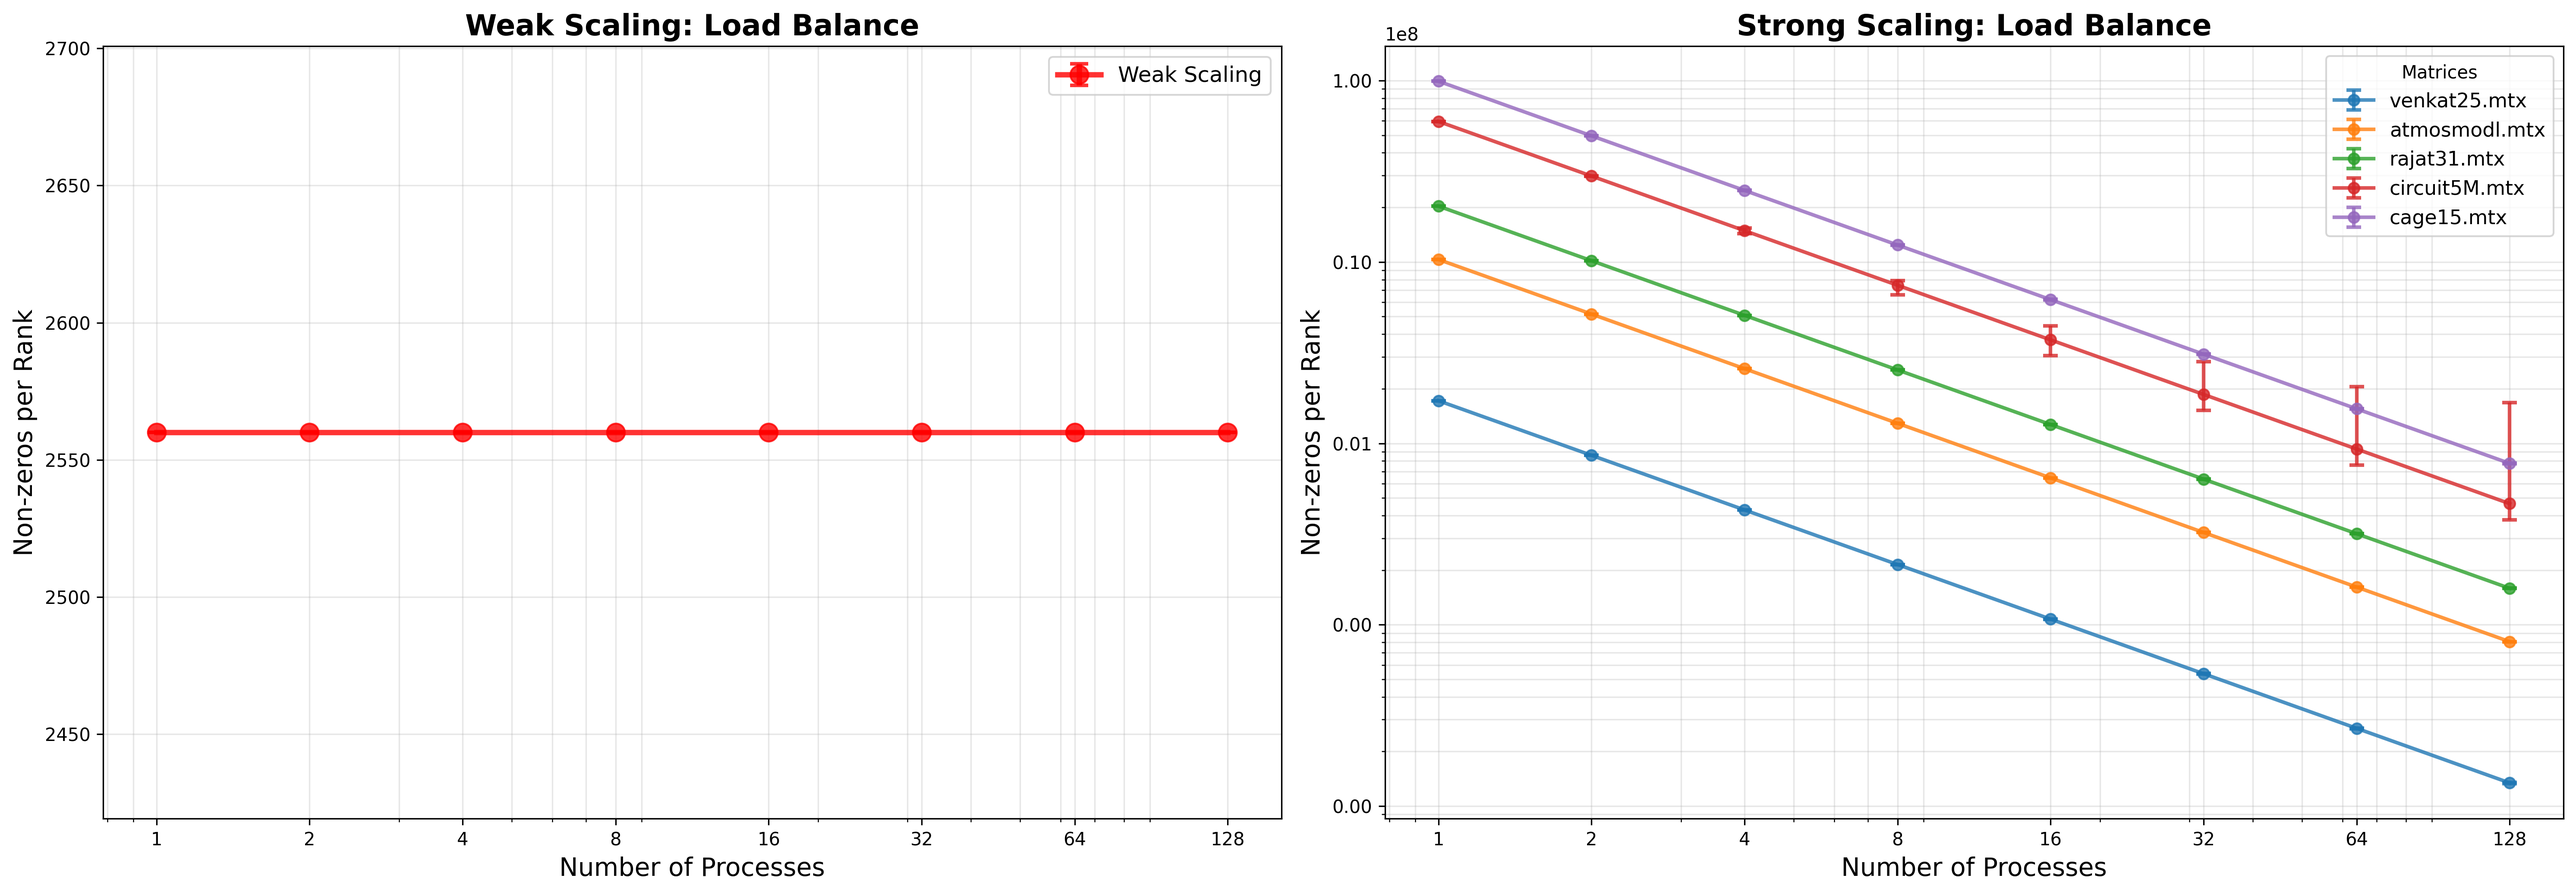
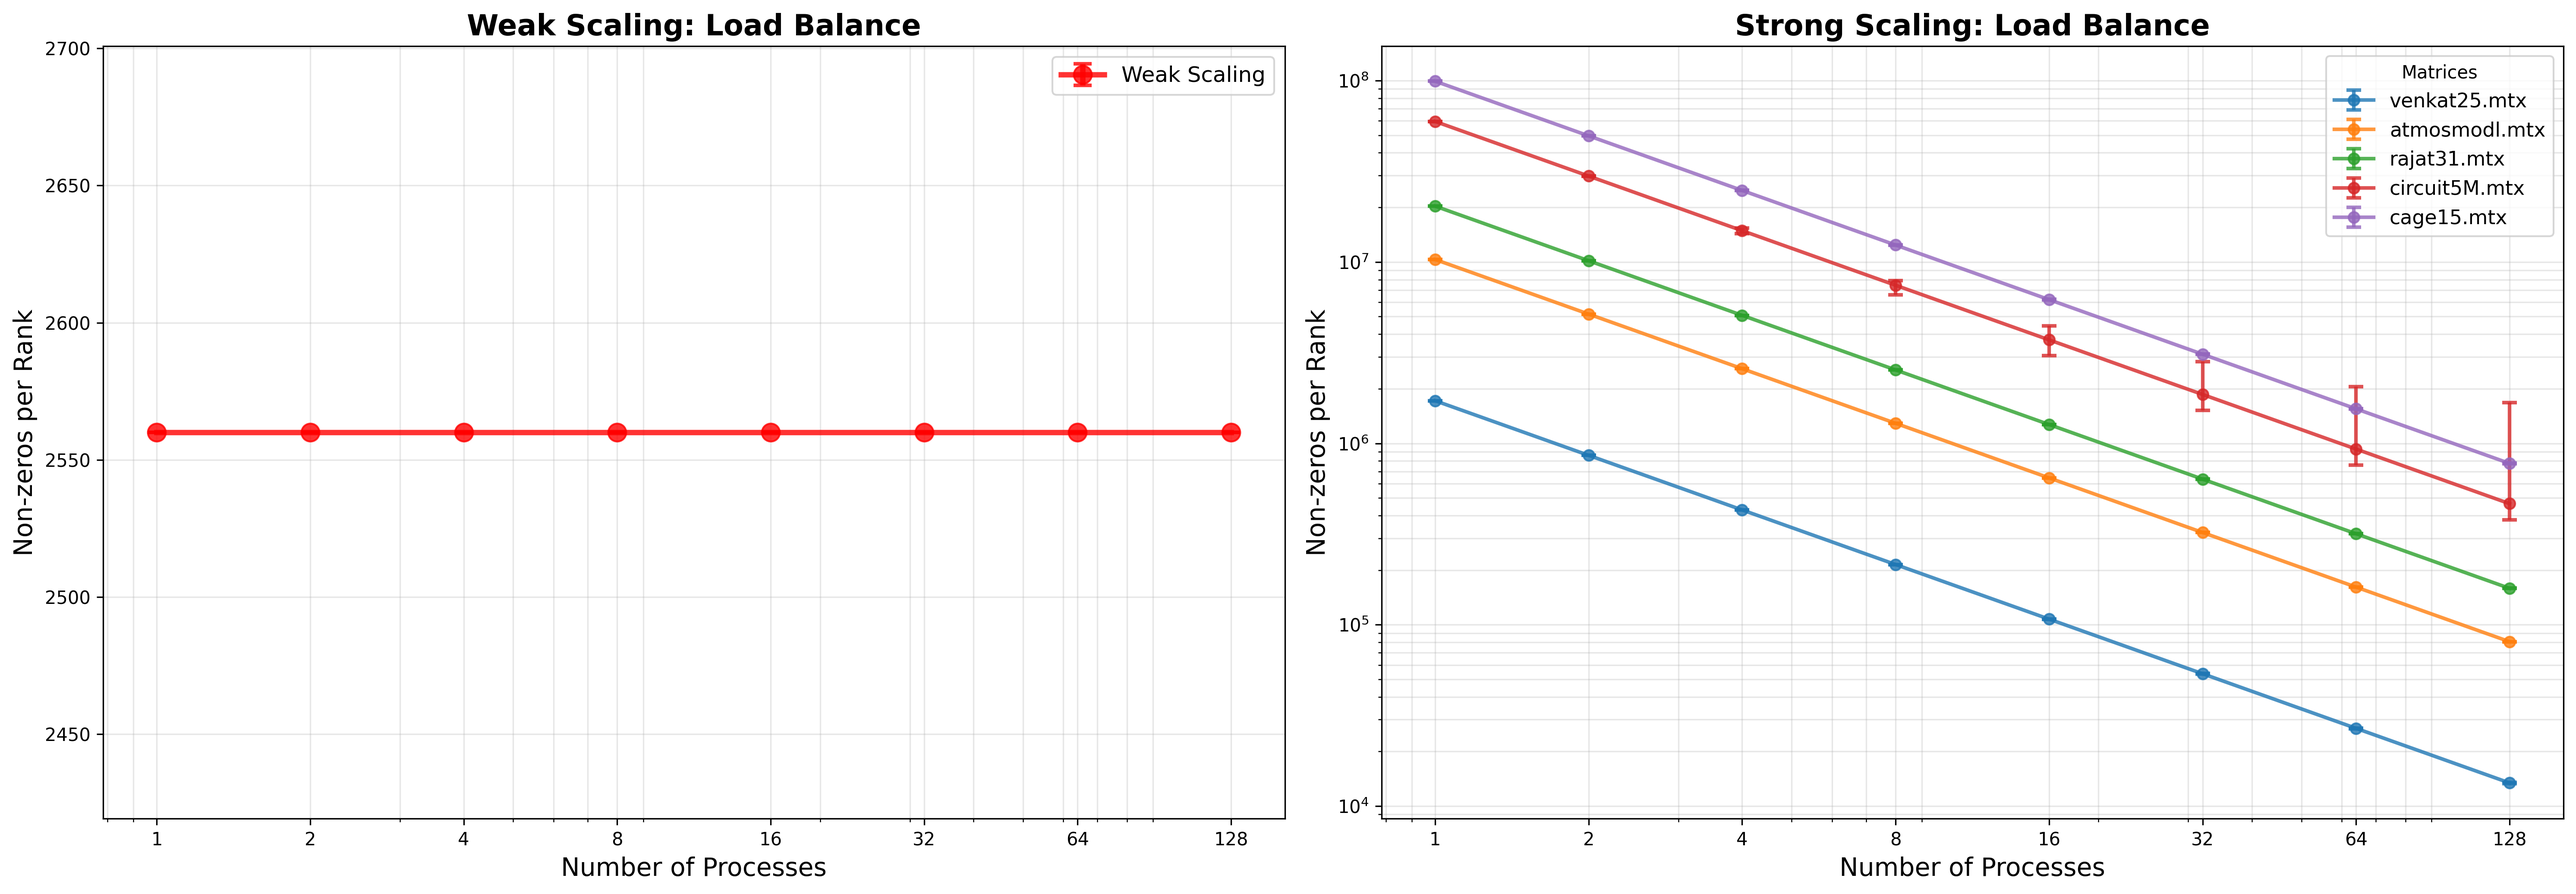
modified readme and plots, new results

diff --git a/D2/scripts/plots_weak_scaling.py b/D2/scripts/plots_weak_scaling.py
@@ -4,19 +4,15 @@ import os
 import matplotlib.ticker as ticker
 import numpy as np
 
-
 script_dir = os.path.dirname(os.path.abspath(__file__))
 parent_dir = os.path.dirname(script_dir)
-
 
 # Read CSV file
 INPUT_FILE = os.path.join(parent_dir, 'results', 'weak_scaling.csv')
 OUTPUT_DIR = os.path.join(parent_dir, 'plots')
 
-
 if not os.path.exists(OUTPUT_DIR):
     os.makedirs(OUTPUT_DIR)
-
 
 # Function to load and process data
 def load_data(input_file):
@@ -39,117 +35,111 @@ def load_data(input_file):
     df['T_Comm'] = pd.to_numeric(df['T_Comm'], errors='coerce')
     df = df.dropna().sort_values('Processes')
 
-
     # Use Total Time for weak scaling
     df['Total'] = df['T_Comp'] + df['T_Comm']
     df['Pct_Comp'] = (df['T_Comp'] / df['Total']) * 100
     df['Pct_Comm'] = (df['T_Comm'] / df['Total']) * 100
 
-
     # Weak Scaling Efficiency = T1_total / Tp_total
     t1_total = df[df['Processes'] == 1]['Total'].values[0]
     df['Efficiency'] = t1_total / df['Total']
 
-
     return df, t1_total
 
 
-# Function to create 1x4 weak scaling figure
+
+# Function to create 1x3 weak scaling figure
 def create_weak_scaling_plots(df, t1_total, output_filename, color_main='r'):
-    # Filter for linear plot (no 128P)
-    df_linear = df[df['Processes'] < 128].copy()
+    # Filter for bar plot (no 128P)
+    df_bar = df[df['Processes'] < 128].copy()
     
-    fig, (ax1, ax2, ax3, ax4) = plt.subplots(1, 4, figsize=(28, 6))
+    fig, (ax1, ax2, ax3) = plt.subplots(1, 3, figsize=(21, 6))
     ticks_x = [1, 2, 4, 8, 16, 32, 64, 128]
-    ticks_x_linear = [1, 2, 4, 8, 16, 32, 64]
 
 
-    # ========== Plot 1: Total Time NORMAL SCALE (all processes) ==========
+
+    # ========== Plot 1: Total Time (Log scale, no scientific notation on y-axis) ==========
     ax1.plot(df['Processes'], df['Total'],
              f'{color_main}o-', linewidth=2, markersize=8,
              label='Measured')
     ax1.axhline(y=t1_total, color=color_main, linestyle='--', linewidth=2,
                 label=f'Ideal ({t1_total:.2f} ms)', alpha=0.7)
-    ax1.set_title('Total Time (Normal Scale)', fontsize=12, fontweight='bold')
+    ax1.set_title('Total Time (Log scale)', fontsize=12, fontweight='bold')
     ax1.set_xlabel('Processes')
     ax1.set_ylabel('Time (ms)')
+    ax1.set_yscale('log')
     ax1.set_xscale('log')
     ax1.set_xticks(ticks_x)
     ax1.set_xticklabels(ticks_x)
     ax1.get_xaxis().set_major_formatter(ticker.ScalarFormatter())
+    ax1.get_yaxis().set_major_formatter(ticker.ScalarFormatter())
     ax1.grid(True, ls="-", alpha=0.3)
     ax1.legend(loc='best', fontsize=10)
 
 
-    # ========== Plot 2: Total Time LINEAR SCALE (≤64P) ==========
-    ax2.plot(df_linear['Processes'], df_linear['Total'],
+
+    # ========== Plot 2: Efficiency ==========
+    ax2.plot(df['Processes'], df['Efficiency'],
              f'{color_main}o-', linewidth=2, markersize=8,
-             label='Measured')
-    ax2.axhline(y=t1_total, color=color_main, linestyle='--', linewidth=2,
-                label=f'Ideal ({t1_total:.2f} ms)', alpha=0.7)
-    ax2.set_title('Total Time (Linear, ≤64P)', fontsize=12, fontweight='bold')
+             label='Efficiency')
+    ax2.axhline(y=1.0, color='k', linestyle='--', linewidth=2,
+                label='Ideal (1.0)')
+    ax2.set_title('Efficiency', fontsize=12, fontweight='bold')
     ax2.set_xlabel('Processes')
-    ax2.set_ylabel('Time (ms)')
+    ax2.set_ylabel('T₁ / Tₚ')
     ax2.set_xscale('log')
-    ax2.set_xticks(ticks_x_linear)
-    ax2.set_xticklabels(ticks_x_linear)
+    ax2.set_xticks(ticks_x)
+    ax2.set_xticklabels(ticks_x)
     ax2.get_xaxis().set_major_formatter(ticker.ScalarFormatter())
-    ax2.set_ylim(-0.02, 0.2)
-    ax2.grid(True, ls="-", alpha=0.3)
+    ax2.grid(True, which="both", ls="-", alpha=0.3)
     ax2.legend(loc='best', fontsize=10)
 
 
-    # ========== Plot 3: Efficiency ==========
-    ax3.plot(df['Processes'], df['Efficiency'],
-             f'{color_main}o-', linewidth=2, markersize=8,
-             label='Efficiency')
-    ax3.axhline(y=1.0, color='k', linestyle='--', linewidth=2,
-                label='Ideal (1.0)')
-    ax3.set_title('Efficiency', fontsize=12, fontweight='bold')
-    ax3.set_xlabel('Processes')
-    ax3.set_ylabel('T₁ / Tₚ')
-    ax3.set_xscale('log')
-    ax3.set_xticks(ticks_x)
-    ax3.set_xticklabels(ticks_x)
-    ax3.get_xaxis().set_major_formatter(ticker.ScalarFormatter())
-    ax3.grid(True, which="both", ls="-", alpha=0.3)
-    ax3.legend(loc='best', fontsize=10)
 
-
-    # ========== Plot 4: Time Breakdown (%) ==========
-    procs = df['Processes'].astype(str).values
+    # ========== Plot 3: Time Breakdown ==========
+    procs = df_bar['Processes'].astype(str).values
     x_pos = np.arange(len(procs))
-    ax4.bar(x_pos, df['Pct_Comp'].values,
+    ax3.bar(x_pos, df_bar['T_Comp'].values,
             color='#2ECC71', label='Compute',
             edgecolor='white', width=0.6)
-    ax4.bar(x_pos, df['Pct_Comm'].values,
-            bottom=df['Pct_Comp'].values,
+    ax3.bar(x_pos, df_bar['T_Comm'].values,
+            bottom=df_bar['T_Comp'].values,
             color='#E74C3C', label='Comm',
             edgecolor='white', width=0.6)
 
 
-    for i in range(len(df)):
-        pct_comp = df['Pct_Comp'].values[i]
-        pct_comm = df['Pct_Comm'].values[i]
+
+
+    for i in range(len(df_bar)):
+        pct_comp = df_bar['Pct_Comp'].values[i]
+        pct_comm = df_bar['Pct_Comm'].values[i]
+        t_comp = df_bar['T_Comp'].values[i]
+        t_comm = df_bar['T_Comm'].values[i]
+        # Display percentage if segment is large enough
         if pct_comp > 10:
-            ax4.text(i, pct_comp / 2, f'{pct_comp:.0f}%',
+            ax3.text(i, t_comp / 2, f'{pct_comp:.0f}%',
                      ha='center', va='center', fontsize=8,
                      fontweight='bold', color='black')
         if pct_comm > 10:
-            ax4.text(i, pct_comp + pct_comm / 2, f'{pct_comm:.0f}%',
+            ax3.text(i, t_comp + t_comm / 2, f'{pct_comm:.0f}%',
                      ha='center', va='center', fontsize=8,
                      fontweight='bold', color='white')
 
 
-    ax4.set_title('Time Breakdown (%)', fontsize=12, fontweight='bold')
-    ax4.set_xlabel('Processes')
-    ax4.set_ylabel('% Total Time')
-    ax4.set_xticks(x_pos)
-    ax4.set_xticklabels(procs, rotation=45, ha='right')
-    ax4.set_ylim(0, 100)
-    ax4.legend(loc='upper right', fontsize=10)
-    ax4.grid(axis='y', linestyle='--', alpha=0.3)
-    ax4.set_axisbelow(True)
+
+
+    ax3.set_title('Time Breakdown (<= 64P)', fontsize=12, fontweight='bold')
+    ax3.set_xlabel('Processes')
+    ax3.set_ylabel('Time (ms)')
+    ax3.set_xticks(x_pos)
+    ax3.set_xticklabels(procs)
+    ax3.yaxis.set_major_locator(ticker.MaxNLocator(nbins=10))
+    ax3.legend(loc='upper right', fontsize=10)
+    ax3.grid(axis='y', linestyle='--', alpha=0.3)
+    ax3.set_axisbelow(True)
+
+
+
 
 
     plt.tight_layout()

diff --git a/D2/scripts/plots_nz.py b/D2/scripts/plots_nz.py
@@ -66,11 +66,9 @@ ax1.legend(loc='best', fontsize=12)
 for mat in MATRIX_ORDER:
     if mat in df_strong['Matrix'].unique():
         subset = df_strong[df_strong['Matrix'] == mat].sort_values('Processes')
-        
         yerr_lower = subset['NZ_Avg'] - subset['NZ_Min']
         yerr_upper = subset['NZ_Max'] - subset['NZ_Avg']
         yerr = [yerr_lower, yerr_upper]
-        
         ax2.errorbar(subset['Processes'], subset['NZ_Avg'],
                      yerr=yerr, marker='o', linewidth=2,
                      markersize=6, capsize=4, capthick=2,
@@ -84,9 +82,11 @@ ax2.set_yscale('log')
 ax2.set_xticks(ticks_x)
 ax2.set_xticklabels(ticks_x)
 ax2.get_xaxis().set_major_formatter(ticker.ScalarFormatter())
-ax2.get_yaxis().set_major_formatter(ticker.ScalarFormatter())
+# Remove the y-axis formatter lines - let log scale use default
 ax2.grid(True, which="both", ls="-", alpha=0.3)
 ax2.legend(title="Matrices", loc='best', fontsize=11)
+
+
 
 plt.tight_layout()
 out_path = os.path.join(OUTPUT_DIR, OUTPUT_FILE)

diff --git a/D2/scripts/plots_strong_scaling.py b/D2/scripts/plots_strong_scaling.py
@@ -90,6 +90,7 @@ def create_plot(df, output_filename):
     ax1.set_title('Strong Scaling: Total Execution Time', fontsize=14, fontweight='bold')
     ax1.set_xlabel('Number of Processes', fontsize=12)
     ax1.set_ylabel('Total Time (s)', fontsize=12)
+    ax1.yaxis.set_major_locator(ticker.MaxNLocator(nbins=10))
     ax1.set_xscale('log')
     ax1.set_xticks(ticks_x)
     ax1.set_xticklabels(ticks_x)
@@ -101,6 +102,7 @@ def create_plot(df, output_filename):
     ax2.set_title('Strong Scaling: Speedup', fontsize=14, fontweight='bold')
     ax2.set_xlabel('Number of Processes', fontsize=12)
     ax2.set_ylabel('Speedup (T₁ / Tₚ)', fontsize=12)
+    ax2.yaxis.set_major_locator(ticker.MaxNLocator(nbins=10))
     ax2.set_xscale('log')
     ax2.set_xticks(ticks_x)
     ax2.set_xticklabels(ticks_x)

diff --git a/D2/scripts/plots_gflops.py b/D2/scripts/plots_gflops.py
@@ -56,6 +56,7 @@ ax1.plot(df_weak['Processes'], df_weak['GFLOPS'],
 ax1.set_title('Weak Scaling: GFLOPS', fontsize=16, fontweight='bold')
 ax1.set_xlabel('Number of Processes', fontsize=14)
 ax1.set_ylabel('GFLOPS', fontsize=14)
+ax1.yaxis.set_major_locator(ticker.MaxNLocator(nbins=12))
 ax1.set_xscale('log')
 ax1.set_xticks(ticks_x)
 ax1.set_xticklabels(ticks_x)
@@ -73,6 +74,7 @@ for mat in MATRIX_ORDER:
 ax2.set_title('Strong Scaling: GFLOPS', fontsize=16, fontweight='bold')
 ax2.set_xlabel('Number of Processes', fontsize=14)
 ax2.set_ylabel('GFLOPS', fontsize=14)
+ax2.yaxis.set_major_locator(ticker.MaxNLocator(nbins=12))
 ax2.set_xscale('log')
 ax2.set_xticks(ticks_x)
 ax2.set_xticklabels(ticks_x)

diff --git a/D2/scripts/plots_strong_scaling_bars.py b/D2/scripts/plots_strong_scaling_bars.py
@@ -4,6 +4,7 @@ import os
 import numpy as np
 import matplotlib.colors as mcolors
 from matplotlib.patches import Patch
+import matplotlib.ticker as ticker
 
 script_dir = os.path.dirname(os.path.abspath(__file__))
 parent_dir = os.path.dirname(script_dir)
@@ -95,6 +96,7 @@ for col_idx, mat in enumerate(MATRIX_ORDER):
         ax.set_xticks(x_indices)
         ax.set_xticklabels(processes)
         ax.grid(axis='y', linestyle='--', alpha=0.5)
+        ax.yaxis.set_major_locator(ticker.MaxNLocator(nbins=12))
         
         legend_elements = [
             Patch(facecolor=base_color, label='Comp'),

diff --git a/D2/data/generate_weak_matrices.py b/D2/data/generate_weak_matrices.py
@@ -1,5 +1,5 @@
 # run this script in the root folder PARCO-2026-2445658
-# python3 .\D2\scripts\generate_weak_matrices.py
+# python3 .\D2\data\generate_weak_matrices.py
 
 import os
 import random

diff --git a/D2/README.md b/D2/README.md
@@ -71,13 +71,13 @@ We implemented distributed SpMV using **MPI** with **1D cyclic row partitioning*
 ```text
   .
   ├── data/                            # Matrices folder
+  │   ├── set_up_matrices.sh           # Download/generate the matrices in the data folder
+  │   └── generate_weak_matrices.py    # Python script for synthetic matrices
   ├── plots/                           # Generated performance graphs
   ├── results/                         # Benchmark CSV outputs
   ├── scripts/                         # Helper scripts
   │   ├── *_scaling.pbs                # Job submissions
   │   ├── benchmark_*.sh               # Benchmark locally
-  │   ├── set_up_matrices.sh           # Download/generate the matrices in the data folder
-  │   ├── generate_weak_matrices.py    # Python script for synthetic matrices
   │   └── plots_*.py                   # Python scripts for generating plots
   ├── src/                             # Source code
   │   ├── main.c                       # Main code where SpMV is used
@@ -108,16 +108,16 @@ Here are the instructions to reproduce the project locally or in the Unitn clust
 
 1. Clone the repo:
 
-```sh
-    git clone https://github.com/AgneseMarchesini/PARCO-Computing-2026-244658.git
-```
+  ```sh
+      git clone https://github.com/AgneseMarchesini/PARCO-Computing-2026-244658.git
+  ```
 
 2. Inside "PARCO-Computing-2026-244658" run the script to download/generate the matrices needed:
 
-    ```sh
-        chmod +x D2/scripts/set_up_matrices.sh
-        D2/scripts/set_up_matrices.sh
-    ```
+  ```sh
+      chmod +x D2/scripts/set_up_matrices.sh
+      D2/scripts/set_up_matrices.sh
+  ```
 
 3. Now you have two options based on where you want to run the program:
 
@@ -173,7 +173,7 @@ The project benchmarks the following matrices from the [SuiteSparse Matrix Colle
 | **circuit5M** | 5,558,326 | 5,558,326 | 59,524,291 | 0.00019 | 2,114,015 |
 | **cage15** | 5,154,859 | 5,154,859 | 99,199,551 | 0.00037 | 2,566,142 |
 
-**Note:** Ensure the downloaded `.mtx` files are placed inside the `data/` directory.
+**Note:** Ensure the `.mtx` files are placed inside the right `data/` directory.
 
 <p align="right">(<a href="#readme-top">back to top</a>)</p>
 
